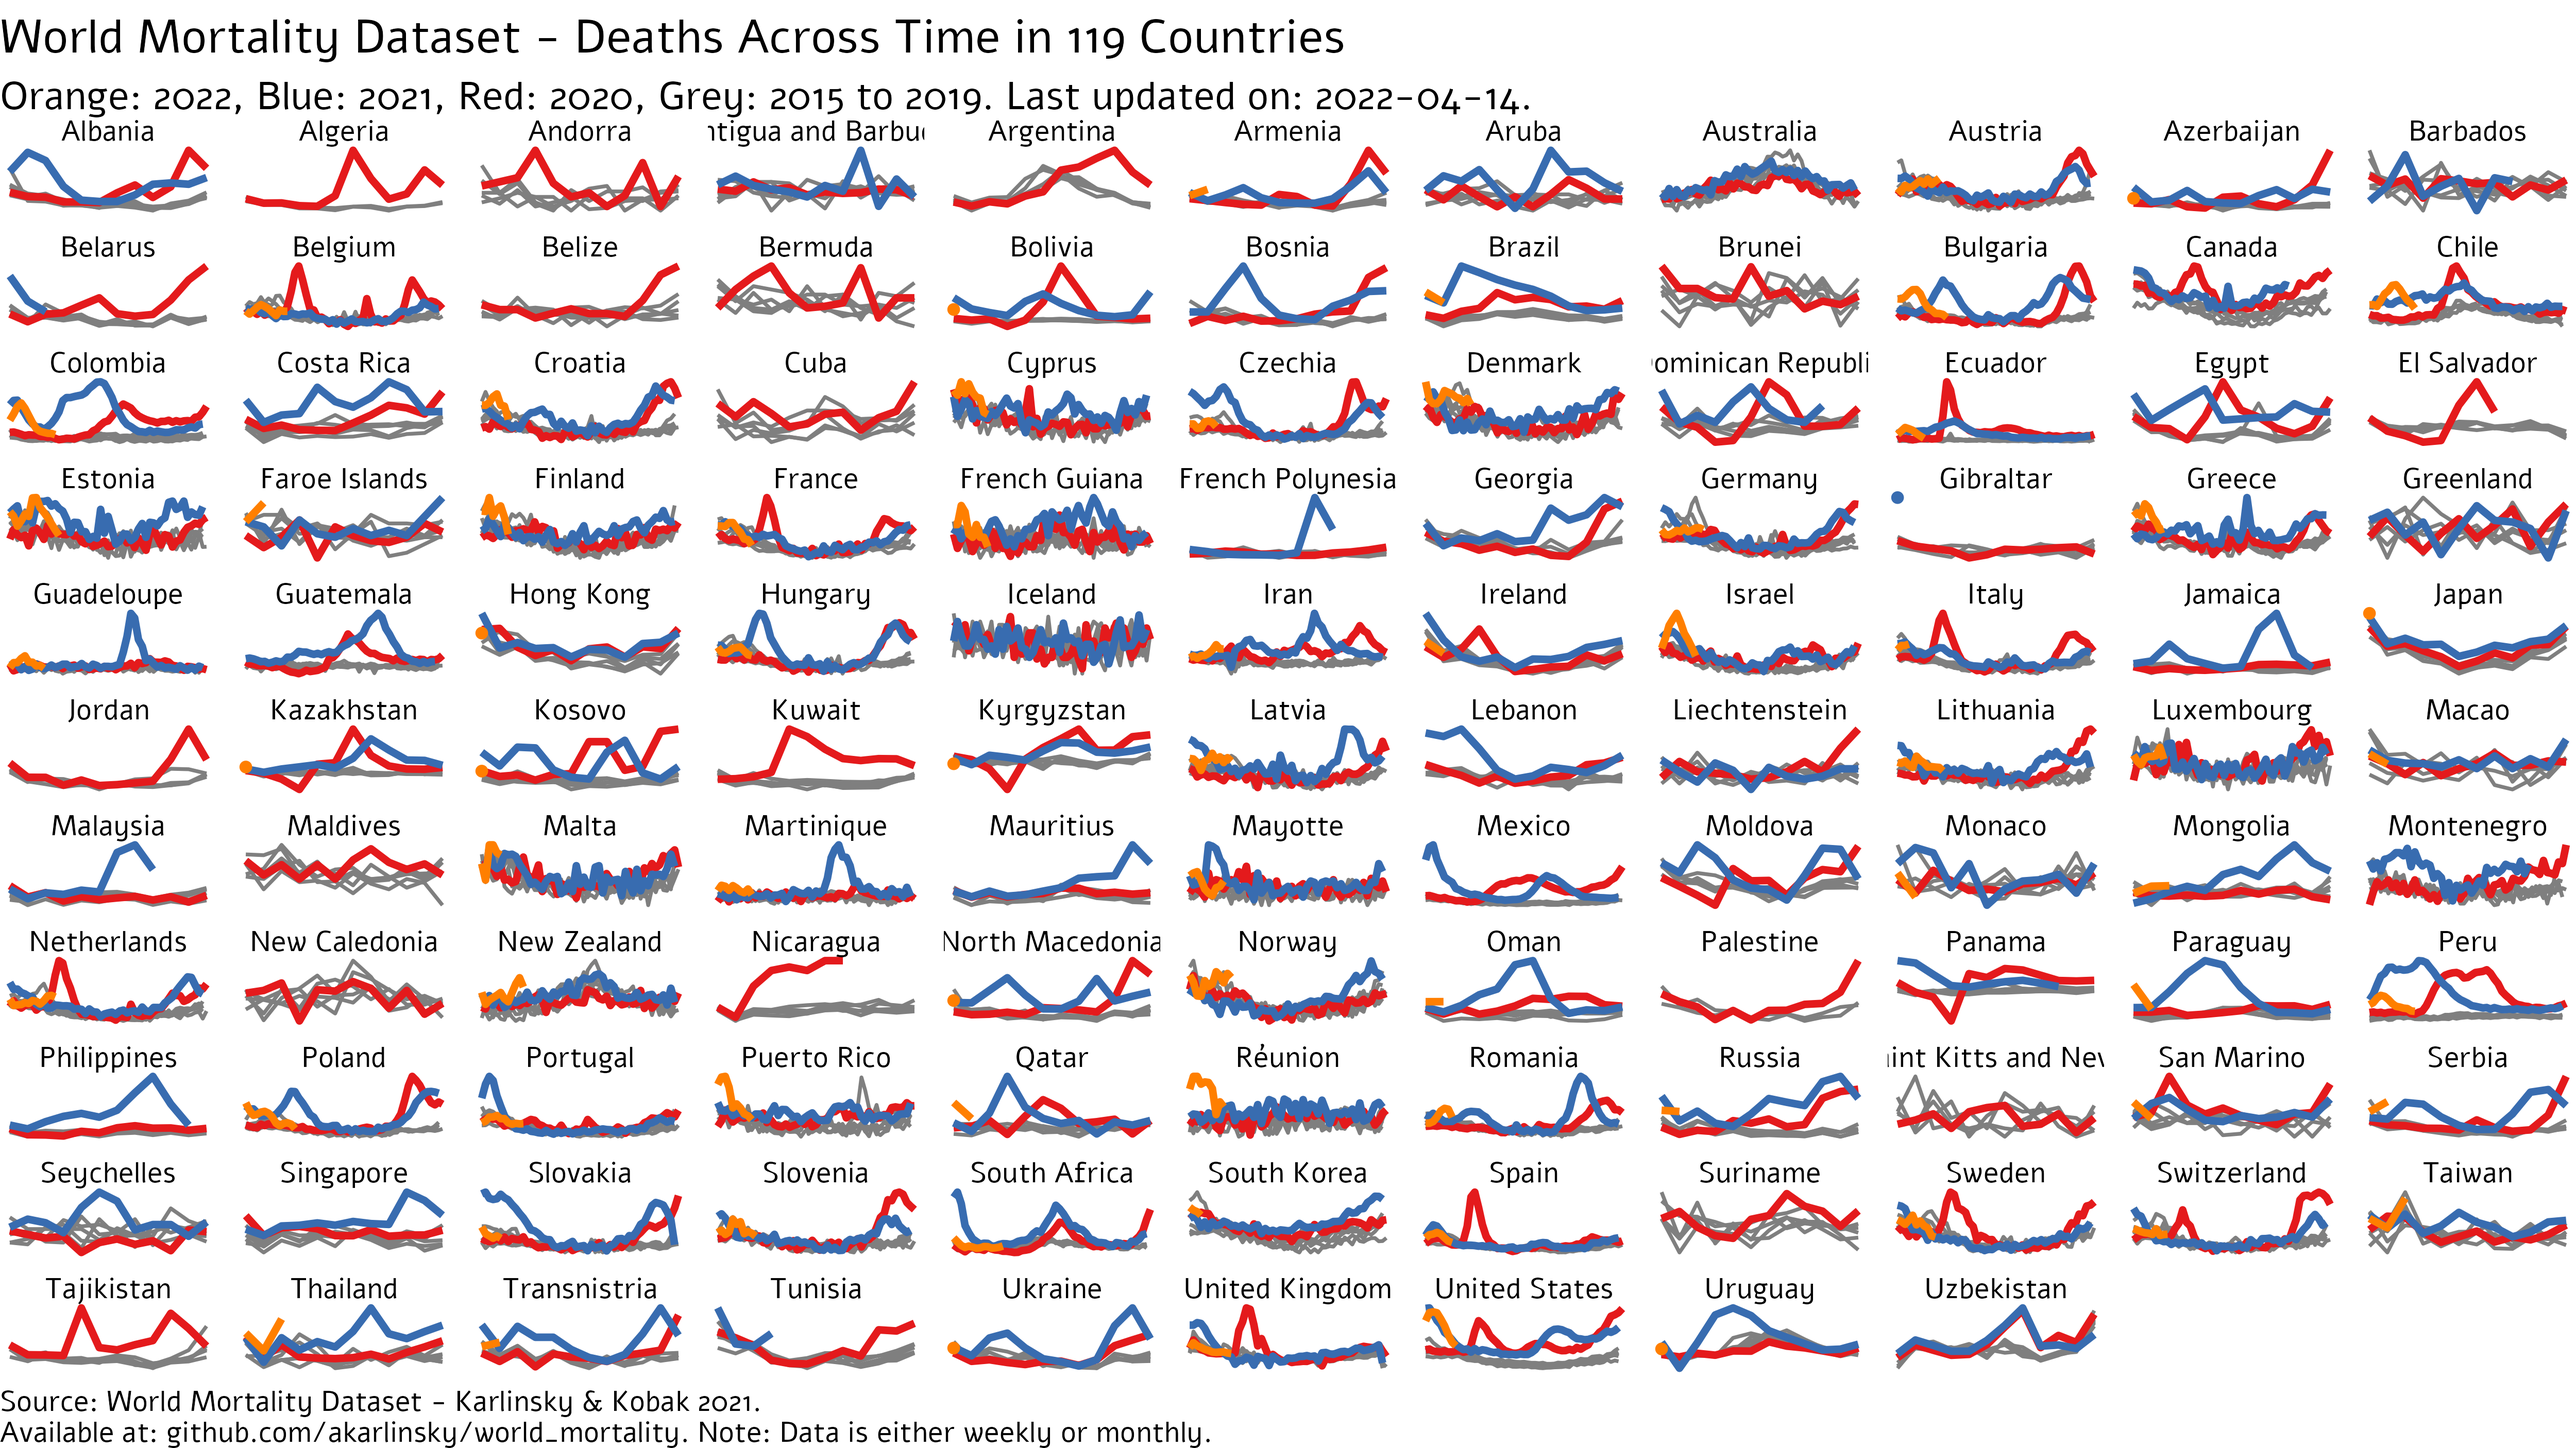
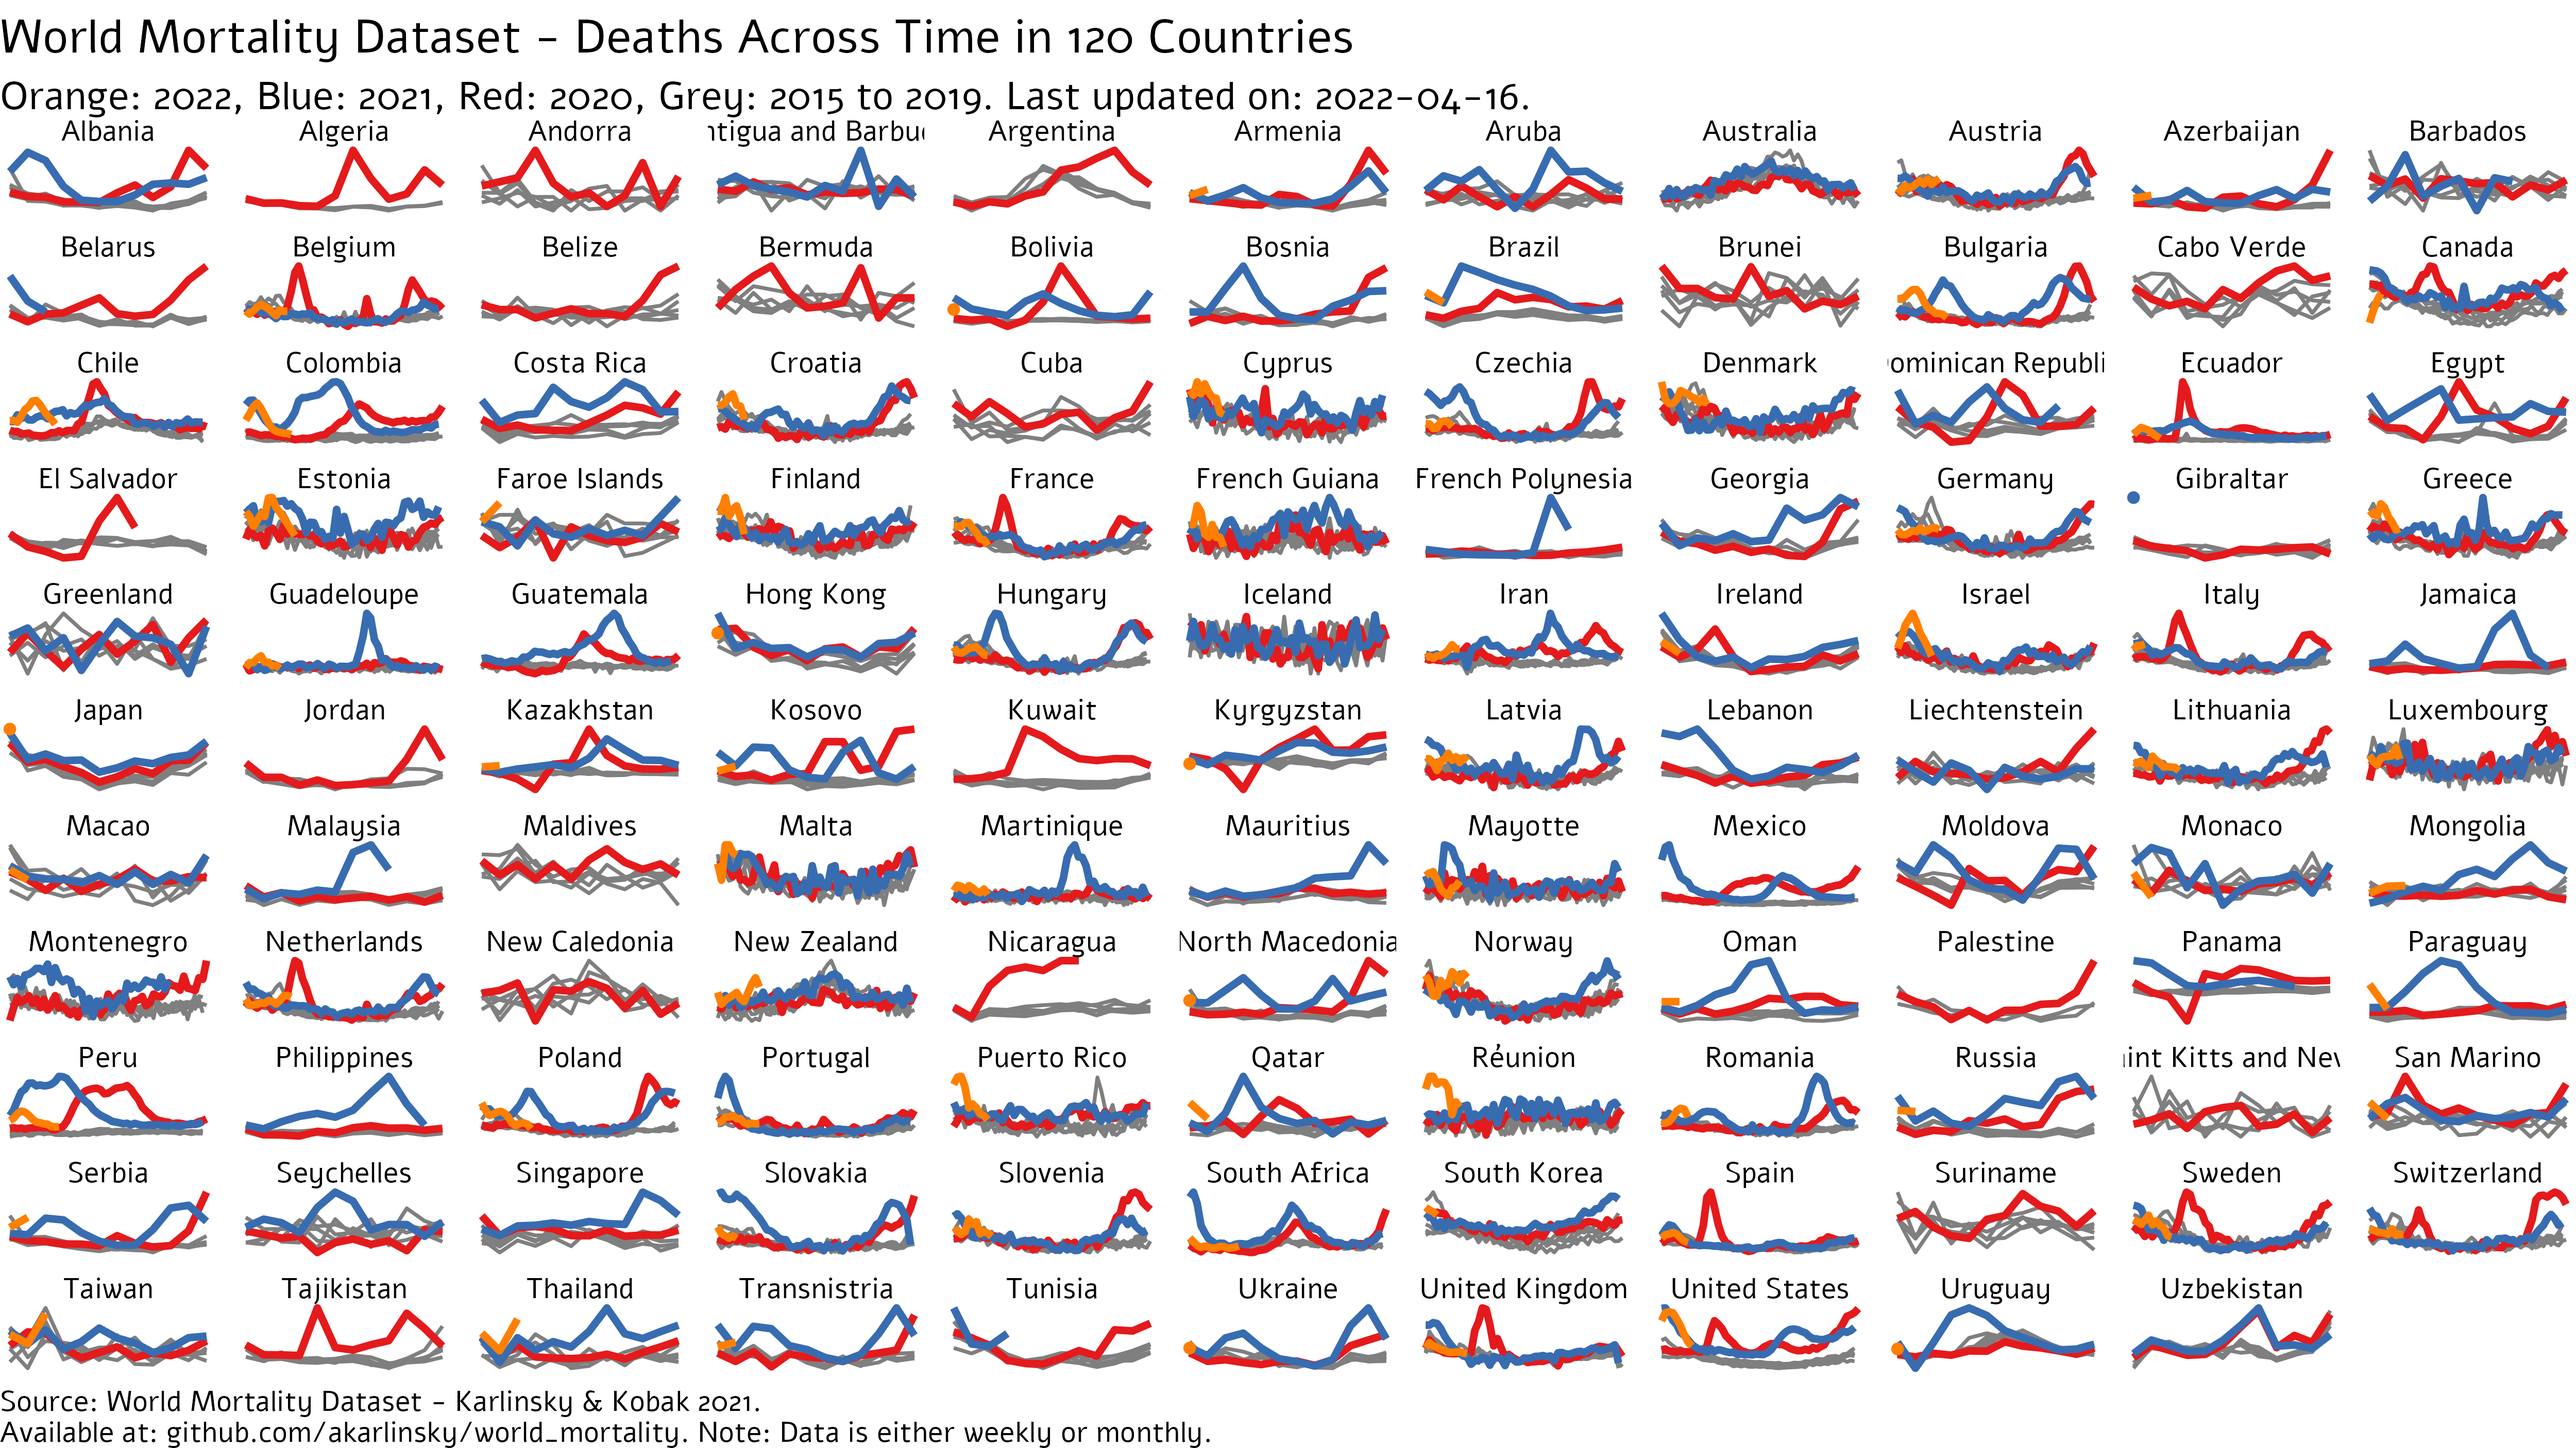
2022-04-16 Update
New country: Cabo Verde 2015-2020 monthly.

- New data: Azerbaijan, Canada, Kazakhstan, Kosovo.

- Revisions: Brazil, Canada, Paraguay, Peru, Transnistria.

Changed region(s): [[0.0, 0.1547, 0.9984, 0.9591], [0.4056, 0.0, 0.5304, 0.0619]]

diff --git a/README.md b/README.md
@@ -1,7 +1,7 @@
 # World Mortality Dataset
 
 This repository contains country-level data on all-cause mortality in 2015–2021 collected from various sources, see below.   
-We are currently providing data for 118 countries and territories.   
+We are currently providing data for 119 countries and territories.   
 We welcome any contributions.
 
 If you use this data, please cite it as:    
@@ -161,6 +161,10 @@ We thank [Marcelo Oliveira](https://github.com/capyvara) and [Otavio Ranzani](ht
 
 ### Brunei (monthly)
 2015 onward: [Department of Economic Planning and Statistics - Vital Statistics](http://www.deps.gov.bn/SitePages/Vital%20Statistics.aspx)
+
+
+### Cabo Verde (monthly)
+2015 to 2020: [National Institute of Statistics - Vital Statistics](https://ine.cv/publicacoes/estatisticas-vitais-nascimentos-obitos-casamentos-2019-2020/) 
 
 
 ### Canada (weekly)
